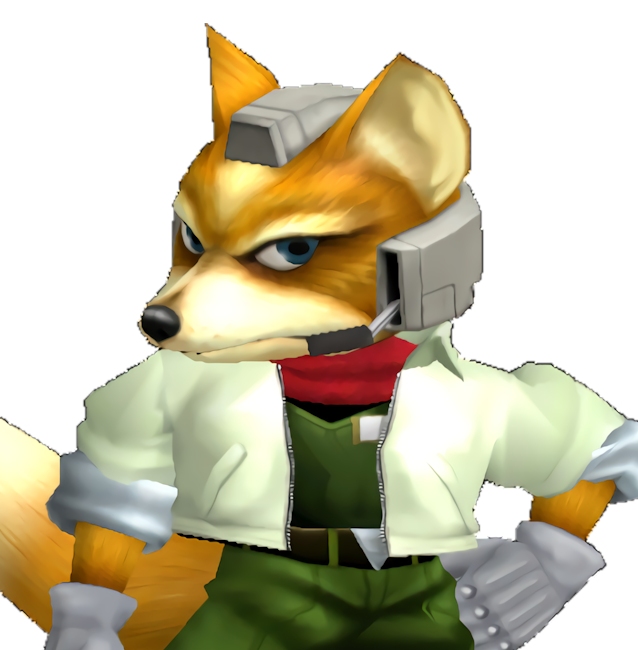
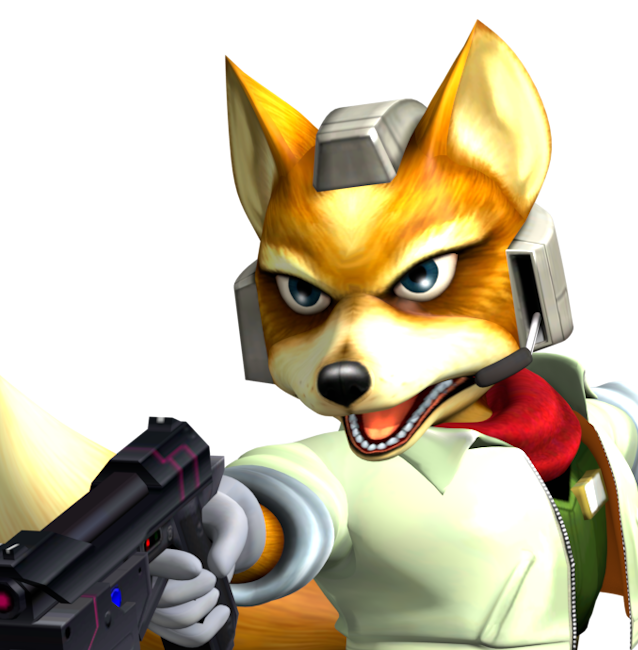
Finished adding melee renders. Modified header layout

diff --git a/templates/_layout.html b/templates/_layout.html
@@ -16,14 +16,14 @@
         <div class="collapse navbar-collapse" id="navbarTogglerDemo01">
         <a class="navbar-brand" href="/">Tournament Thumbnail Maker</a>
         <ul class="navbar-nav mr-auto mt-2 mt-lg-0">
-            <li class="nav-item active">
+            <!-- <li class="nav-item active">
             <a class="nav-link" href="/">Home</a>
-            </li>
-            <li class="nav-item">
+            </li> -->
+            <!-- <li class="nav-item">
                 <a class="nav-link" href="/bulk">Generate in Bulk</a>
-            </li>
+            </li> -->
             <li class="nav-item">
-            <a class="nav-link disabled" href="#">[very early build]</a>
+            <a class="nav-link disabled" href="#">Created by j-sprague</a>
             </li>
         </ul>
         </div>

diff --git a/templates/bulk.html b/templates/bulk.html
@@ -2,7 +2,18 @@
 
 {% block body %} 
 <div class="container"> <div class="col-sm">
-    <h1>Not implemented yet.</h1>
+        <h1>Bulk Thumbnail Maker</h1>
+    <p>Input information for your thumbnail</p>
+
+    <div class="form-group small-form"> <label for="game">Game</label>
+        <form action="/bulk" method="POST">
+    <select class="form-control form-group" id="game" name="game" onchange="this.form.submit()">
+        {% for game in games %}
+        <option value="{{game}}"   {{'selected="selected"' if prev_form.get('game')==game else ''}}>
+                {{game}}
+            </option>
+        {% endfor %}
+    </select></form></div>
     
 </div> </div>
 {% endblock %}

diff --git a/app.py b/app.py
@@ -26,7 +26,7 @@ def index():
 @app.route('/',methods=['POST'])
 def change():
     game = request.form.get('game').strip()
-    print(game)
+    # print(game)
     chars_file = open("chars/" + game + "/chars.txt","r")
     chars = chars_file.read().split('\n')
     chars_file.close()
@@ -34,7 +34,11 @@ def change():
 
 @app.route('/bulk')
 def bulk():
-    return render_template('bulk.html')
+    chars_file = open("chars/Super Smash Bros Ultimate/chars.txt","r")
+    chars = chars_file.read().split('\n')
+    chars_file.close()
+    prev_form = {'game':'Super Smash Bros Ultimate'}
+    return render_template('bulk.html',chars=chars,thumbs=thumbs,games=games, prev_form=prev_form)
 
 @app.route('/create', methods=['POST'])
 def create():
